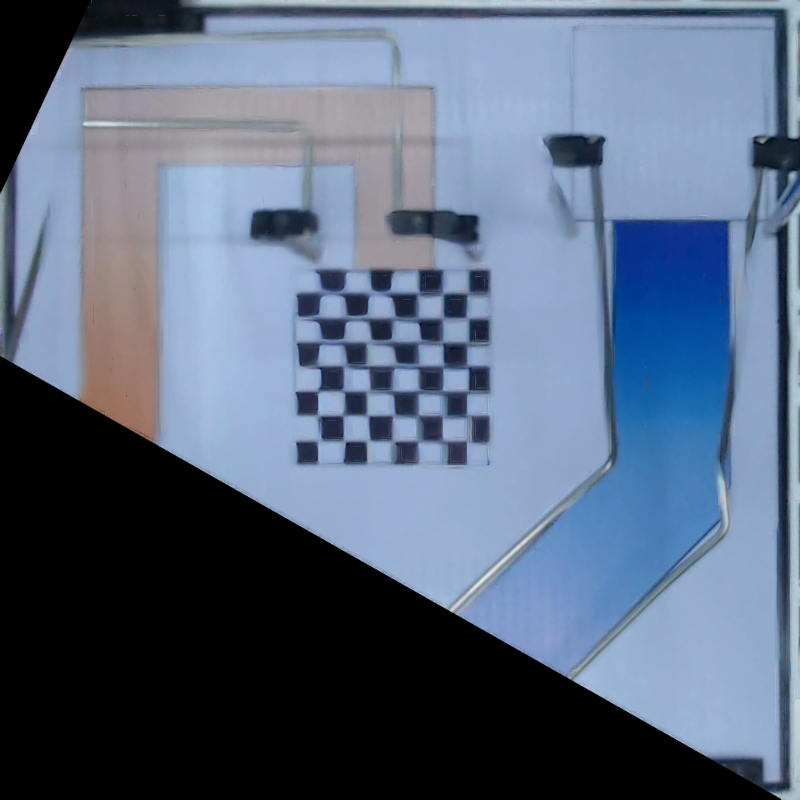
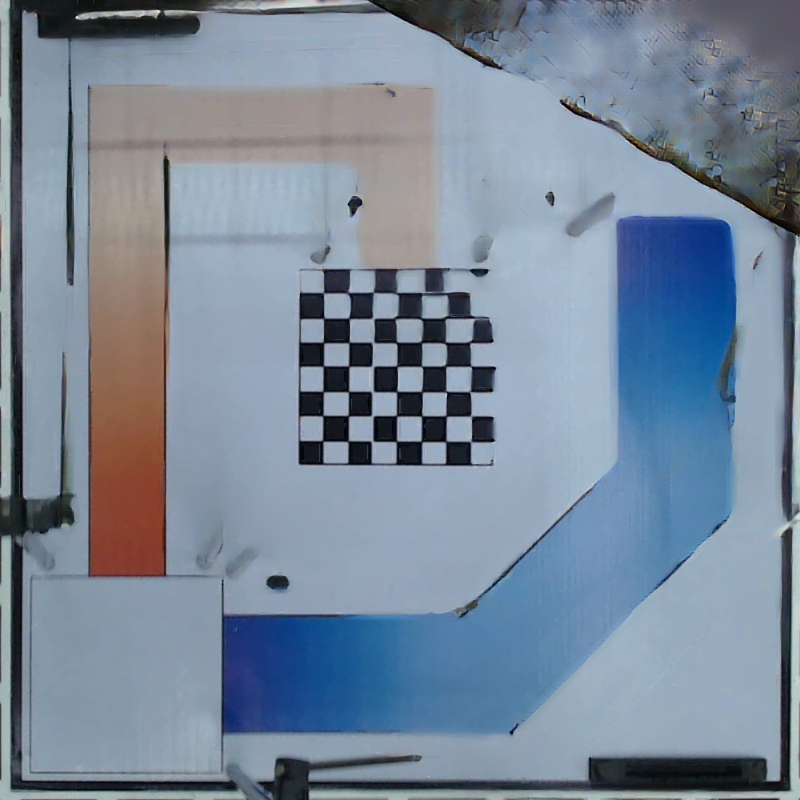
integrate RUN-reconstruction

diff --git a/ponyslayer/recon_median.py b/ponyslayer/recon_median.py
@@ -3,11 +3,6 @@ from skimage.measure import compare_ssim
 import numpy as np
 import random
 
-warped_list = np.load("X:/warped.npy", mmap_mode='r')
-valid_mask_list = np.load("X:/mask.npy", mmap_mode='r')
-# warped_list = np.load("C:/Users/teera/Downloads/warped.npy", mmap_mode='r')
-# valid_mask_list = np.load("C:/Users/teera/Downloads/mask.npy", mmap_mode='r')
-
 def findMedian(images): return np.asarray(np.median(np.dstack(images), axis=2), dtype=np.uint8)
 def apply_pair(imageA, maskA, imageB, maskB):
     grayA = cv2.cvtColor(imageA, cv2.COLOR_BGR2GRAY)
@@ -31,7 +26,7 @@ def apply_three(imageA, maskA, imageB, maskB, imageC, maskC):
     C = cv2.bitwise_or(cv2.bitwise_and(AB, cv2.bitwise_not(AB)),  # C = AC & !AB
                        cv2.bitwise_and(AC, cv2.bitwise_not(AB)))  # C = BC & !AB
     return [A, B, C]
-def apply_rand(imageA, maskA, pool, pool_valid, N):
+def apply_single_rand(imageA, maskA, pool, pool_valid, N):
     grayA = cv2.cvtColor(imageA, cv2.COLOR_BGR2GRAY)
     mask_list = []
     for i in range(N):
@@ -48,7 +43,6 @@ def apply_rand(imageA, maskA, pool, pool_valid, N):
         mask_list.append(mask)
     mask_med = np.asarray(np.median(np.dstack(mask_list), axis=2), dtype=np.uint8)
     return cv2.bitwise_or(cv2.bitwise_not(maskA), mask_med)
-
 def median_with_mask(images, masks):
     R, G, B = [], [] ,[]
     for img in images:
@@ -60,13 +54,13 @@ def median_with_mask(images, masks):
     image_tmp_r = np.dstack(R)
     image_tmp_g = np.dstack(G)
     image_tmp_b = np.dstack(B)
-    print(image_tmp_r.shape)
-    print(mask_tmp.shape)
+    # print(image_tmp_r.shape)
+    # print(mask_tmp.shape)
     mask = np.sum(mask_tmp, axis=2, dtype=np.uint16) # 255 is masked, 0 is unmasked (we want to count)
     mask = np.asarray(len(images) - mask/255, dtype=np.uint8)
     # cv2.imshow("A", mask)
     # cv2.waitKey(0)
-    print(mask.shape)
+    # print(mask.shape)
     r = np.sort(image_tmp_r, axis=2) # Sort stacked pixel
     r = np.dsplit(r, len(images)) # Split stacked pixel as before (but sorted)
     g = np.dsplit(np.sort(image_tmp_g, axis=2), len(images))
@@ -76,7 +70,7 @@ def median_with_mask(images, masks):
     #     cv2.imshow("A", final)
     #     cv2.waitKey(0)
     result = np.zeros_like(images[0])
-    print(result.shape)
+    # print(result.shape)
     # r = np.take(r, mask)
     # cv2.imshow("B", r)
     # cv2.waitKey(0)
@@ -87,48 +81,40 @@ def median_with_mask(images, masks):
             result[row][column][0] = r[index][row][column]
             result[row][column][1] = g[index][row][column]
             result[row][column][2] = b[index][row][column]
-    cv2.imshow("A", result)
-    cv2.waitKey(0)
+    # cv2.imshow("A", result)
+    # cv2.waitKey(0)
+    cv2.imwrite("X:/final.png", result)
     return result
 
-warpeds = []
-valids = []
-for i in range(20):
-    index = random.randrange(0, len(warped_list)/3)
-    warpeds.append(warped_list[index])
-    valids.append(valid_mask_list[index])
-median_with_mask(warpeds, valids)
+def run(N=20): # Median with valid mask
+    warped_list = np.load("X:/warped.npy", mmap_mode='r')
+    valid_mask_list = np.load("X:/mask.npy", mmap_mode='r')
+    warpeds = []
+    valids = []
+    for i in range(N):
+        index = random.randrange(0, int(len(warped_list) / 3))
+        warpeds.append(warped_list[index])
+        valids.append(valid_mask_list[index])
+    median_with_mask(warpeds, valids)
 
-# median_with_mask(warped_list[:20], valid_mask_list[:20])
+def run_rail(N=20, iteration=5): # Median with valid mask & Rail mask
+    warped_list = np.load("X:/warped.npy", mmap_mode='r')
+    valid_mask_list = np.load("X:/mask.npy", mmap_mode='r')
+    warpeds = []
+    valids = []
+    masks = []
+    for i in range(N):
+        index = random.randrange(0, int(len(warped_list) / 3))
+        warpeds.append(warped_list[index])
+        valids.append(valid_mask_list[index])
+        mask = apply_single_rand(warped_list[index], valid_mask_list[index], warped_list, valid_mask_list, iteration)
+        # mask = cv2.GaussianBlur(mask,(5,5),0)
+        # cv2.imshow("Mask", mask)
+        # cv2.imshow("Preview", warped_list[index])
+        # cv2.waitKey(1)
+        masks.append(mask)
+    median_with_mask(warpeds, masks)
 
-mask = apply_rand(warped_list[0], valid_mask_list[0], warped_list, valid_mask_list, 5)
-cv2.imwrite("X:/image1.png", warped_list[0])
-mask_rgb = cv2.cvtColor(mask, cv2.COLOR_GRAY2BGR)
-cv2.imwrite("X:/mask1.png", mask_rgb)
-
-# mask = apply_pair(warped_list[0], valid_mask_list[0], warped_list[20], valid_mask_list[20])
-# cv2.imwrite("X:/image1.png", warped_list[0])
-# cv2.imwrite("X:/mask1.png", cv2.cvtColor(mask, cv2.COLOR_GRAY2BGR))
-
-# original = imutils.resize(np.hstack([warped_list[0], warped_list[100], warped_list[200]]), width=1920)
-# rail_mask = imutils.resize(np.hstack(apply_three(warped_list[0], valid_mask_list[0], warped_list[100], valid_mask_list[100], warped_list[200], valid_mask_list[200])), width=1920)
-# cv2.imshow("A", original)
-# cv2.imshow("B", rail_mask)
-# cv2.waitKey(0)
-#
-# circular_round = 3
-# N = 3
-# step_round = int(len(warped_list)/N/circular_round)
-# for i in range(circular_round):
-#     index = []
-#     # for j in range(N): index.append(int(i*step_round + j*step_round/N))
-#     for j in range(N): index.append(int(i * step_round + j * 20))
-#     rail_masks = apply_three(warped_list[index[0]], valid_mask_list[index[0]],
-#                              warped_list[index[1]], valid_mask_list[index[1]],
-#                              warped_list[index[2]], valid_mask_list[index[2]])
-#     originals = [warped_list[index[0]], warped_list[index[0]], warped_list[index[0]]]
-#
-#     for i in range(3):
-#         mask_rgb = cv2.cvtColor(rail_masks[i], cv2.COLOR_GRAY2BGR)
-#         cv2.imwrite("X:/image" + str(i) + ".png", originals[i])
-#         cv2.imwrite("X:/mask" + str(i) + ".png", mask_rgb)
+if __name__ == "__main__":
+    run()
+    # run_rail(N=20)

diff --git a/ponyslayer/BGsub.py b/ponyslayer/BGsub.py
@@ -3,57 +3,59 @@ import numpy as np
 import math
 import random
 
-
-cuda_stream = cv2.cuda_Stream()
-backSub = cv2.cuda.createBackgroundSubtractorMOG2(history=100, varThreshold=16, detectShadows=False)
-# backSub = cv2.createBackgroundSubtractorKNN(history=30, dist2Threshold=400.0, detectShadows=True)
-
-warped_list = np.load("X:/warped.npy", mmap_mode='r')
-valid_mask_list = np.load("X:/mask.npy", mmap_mode='r')
-
-i = 0
-frame_counter = 0
-mode = True
-N = 1000
-bg_list = []
-for frame_counter in range(N):
-    index = random.randint(0, len(warped_list) - 1)
-    index = frame_counter % len(warped_list)
-    warped = warped_list[index]
-    valid_mask = valid_mask_list[index]
-    frame_counter += 1
-    if frame_counter > 500 and random.randint(0, N - frame_counter) < 200:
-        warped_final = bg_list[random.randint(0, len(bg_list) - 1)]
-    else:
-        if frame_counter < 200:
-            mean_canvas = np.ones(warped.shape, dtype="uint8") * 200
-            mean_canvas = cv2.bitwise_or(mean_canvas, mean_canvas, mask=cv2.bitwise_not(valid_mask))
+def run(use_random=True, visualize=False):
+    cuda_stream = cv2.cuda_Stream()
+    backSub = cv2.cuda.createBackgroundSubtractorMOG2(history=100, varThreshold=16, detectShadows=False)
+    # backSub = cv2.createBackgroundSubtractorKNN(history=30, dist2Threshold=400.0, detectShadows=True)
+    warped_list = np.load("X:/warped.npy", mmap_mode='r')
+    valid_mask_list = np.load("X:/mask.npy", mmap_mode='r')
+    i = 0
+    frame_counter = 0
+    mode = True
+    N = 1000
+    bg_list = []
+    for frame_counter in range(N):
+        if use_random: index = random.randint(0, len(warped_list) - 1)
+        else: index = frame_counter % len(warped_list)
+        warped = warped_list[index]
+        valid_mask = valid_mask_list[index]
+        frame_counter += 1
+        if frame_counter > 500 and random.randint(0, N - frame_counter) < 200:
+            warped_final = bg_list[random.randint(0, len(bg_list) - 1)]
         else:
-            mean_canvas = cv2.bitwise_or(bg, bg, mask=cv2.bitwise_not(valid_mask))
-            if frame_counter % 8 == 0: bg_list.append(bg)
-        valid_mask = cv2.bitwise_or(warped, warped, mask=valid_mask)
-        final = cv2.bitwise_or(mean_canvas, valid_mask)
-        cv2.imshow('Passed', final)
-        final_gpu = cv2.cuda_GpuMat()
-        final_gpu.upload(final)
+            if frame_counter < 200:
+                mean_canvas = np.ones(warped.shape, dtype="uint8") * 200
+                mean_canvas = cv2.bitwise_or(mean_canvas, mean_canvas, mask=cv2.bitwise_not(valid_mask))
+            else:
+                mean_canvas = cv2.bitwise_or(bg, bg, mask=cv2.bitwise_not(valid_mask))
+                if frame_counter % 8 == 0: bg_list.append(bg)
+            valid_mask = cv2.bitwise_or(warped, warped, mask=valid_mask)
+            final = cv2.bitwise_or(mean_canvas, valid_mask)
+            if visualize: cv2.imshow('Passed', final)
+            final_gpu = cv2.cuda_GpuMat()
+            final_gpu.upload(final)
+            final = cv2.cuda_GpuMat(final)
+            fgMask = backSub.apply(final, -1, cuda_stream)
+            fgMask = fgMask.download()
+            # fgMask = cv2.morphologyEx(fgMask, cv2.MORPH_CLOSE, kernel=np.ones((5,5),np.uint8))
+            # cv2.imshow('FG Mask', fgMask)
+            bg = cv2.cuda_GpuMat(final_gpu.size(), final_gpu.type())
+            backSub.getBackgroundImage(cuda_stream, bg)
+            bg = bg.download()
+            bg_list.append(bg)
+            if visualize:
+                cv2.imshow('BG', bg)
+                key = cv2.waitKey(1)
+                if key == 27:
+                    break
+                if key == ord('m'):
+                    mode = not mode
+                if key == ord(' '):
+                    cv2.imwrite(str(i) + ".jpg", warped)
+                    i += 1
+    cv2.imwrite("X:/final.png", bg)
+    cv2.waitKey(0)
+    cv2.destroyAllWindows()
 
-        final = cv2.cuda_GpuMat(final)
-        fgMask = backSub.apply(final, -1, cuda_stream)
-        fgMask = fgMask.download()
-        # fgMask = cv2.morphologyEx(fgMask, cv2.MORPH_CLOSE, kernel=np.ones((5,5),np.uint8))
-        # cv2.imshow('FG Mask', fgMask)
-        bg = cv2.cuda_GpuMat(final_gpu.size(), final_gpu.type())
-        backSub.getBackgroundImage(cuda_stream, bg)
-        bg = bg.download()
-        bg_list.append(bg)
-        cv2.imshow('BG', bg)
-    key = cv2.waitKey(1)
-    if key == 27:
-        break
-    if key == ord('m'):
-        mode = not mode
-    if key == ord(' '):
-        cv2.imwrite(str(i) + ".jpg", warped)
-        i += 1
-cv2.waitKey(0)
-cv2.destroyAllWindows()
+if __name__ == "__main__":
+    run(visualize=True)

diff --git a/ponyslayer/BGsub_frank.py b/ponyslayer/BGsub_frank.py
@@ -3,39 +3,40 @@ import numpy as np
 import math
 import random
 
+def run(use_random=True):
+    cuda_stream = cv2.cuda_Stream()
+    backSub = cv2.cuda.createBackgroundSubtractorMOG2(history=100, varThreshold=16, detectShadows=False)
+    # backSub = cv2.createBackgroundSubtractorKNN(history=30, dist2Threshold=400.0, detectShadows=True)
+    warped_list = np.load("X:/frank.npy", mmap_mode='r')
+    i=0
+    mode = True
+    N = 1000
+    bg_list = []
+    for frame_counter in range(N):
+        if use_random: index = random.randint(0, len(warped_list) - 1)
+        else: index = frame_counter % len(warped_list)
+        warped = warped_list[index]
+        warped_gpu = cv2.cuda_GpuMat()
+        warped_gpu.upload(warped)
+        fgMask = backSub.apply(warped_gpu, -1, cuda_stream)
+        fgMask = fgMask.download()
+        fgMask = cv2.morphologyEx(fgMask, cv2.MORPH_CLOSE, kernel=np.ones((5,5),np.uint8))
+        cv2.imshow('FG Mask', fgMask)
+        bg = cv2.cuda_GpuMat(warped_gpu.size(), warped_gpu.type())
+        backSub.getBackgroundImage(cuda_stream, bg)
+        bg = bg.download()
+        cv2.imshow('BG', bg)
+        key = cv2.waitKey(1)
+        if key == 27:
+            break
+        if key == ord('m'):
+            mode = not mode
+        if key == ord(' '):
+            cv2.imwrite(str(i) + ".jpg", warped)
+            i += 1
+    cv2.imwrite("X:/final.png", bg)
+    cv2.waitKey(0)
+    cv2.destroyAllWindows()
 
-cuda_stream = cv2.cuda_Stream()
-backSub = cv2.cuda.createBackgroundSubtractorMOG2(history=100, varThreshold=16, detectShadows=False)
-# backSub = cv2.createBackgroundSubtractorKNN(history=30, dist2Threshold=400.0, detectShadows=True)
-
-warped_list = np.load("X:/frank.npy", mmap_mode='r')
-
-i=0
-mode = True
-N = 1000
-bg_list = []
-for frame_counter in range(N):
-    index = random.randint(0, len(warped_list) - 1)
-    warped = warped_list[index]
-
-    warped_gpu = cv2.cuda_GpuMat()
-    warped_gpu.upload(warped)
-    fgMask = backSub.apply(warped_gpu, -1, cuda_stream)
-    fgMask = fgMask.download()
-    fgMask = cv2.morphologyEx(fgMask, cv2.MORPH_CLOSE, kernel=np.ones((5,5),np.uint8))
-    cv2.imshow('FG Mask', fgMask)
-    bg = cv2.cuda_GpuMat(warped_gpu.size(), warped_gpu.type())
-    backSub.getBackgroundImage(cuda_stream, bg)
-    bg = bg.download()
-    cv2.imshow('BG', bg)
-    key = cv2.waitKey(1)
-    if key == 27:
-        break
-    if key == ord('m'):
-        mode = not mode
-    if key == ord(' '):
-        cv2.imwrite(str(i) + ".jpg", warped)
-        i += 1
-cv2.imwrite("X:/final.png", bg)
-cv2.waitKey(0)
-cv2.destroyAllWindows()
+if __name__ == "__main__":
+    run()

diff --git a/ponyslayer/frankenstein.py b/ponyslayer/frankenstein.py
@@ -1,28 +1,29 @@
 import numpy as np
 import cv2
 import random
-warped_list = np.load("X:/warped.npy", mmap_mode='r')
-valid_mask_list = np.load("X:/mask.npy", mmap_mode='r')
-
-N = 200
-n = 5
-num_pixel = 800*800
-frank_list = []
-for i in range(N):
-    index = random.randint(0, len(warped_list) - 1)
-    image = warped_list[index]
-    mask = valid_mask_list[index]
-    area = np.sum(mask == 255)
-    while area/num_pixel*100 < 99:
+def run(N=20):
+    warped_list = np.load("X:/warped.npy", mmap_mode='r')
+    valid_mask_list = np.load("X:/mask.npy", mmap_mode='r')
+    n = 5
+    num_pixel = 800*800
+    frank_list = []
+    for i in range(N):
         index = random.randint(0, len(warped_list) - 1)
-        image_frank = warped_list[index]
-        mask_frank = valid_mask_list[index]
-        image_frank =  cv2.bitwise_or(image_frank, image_frank, mask=cv2.bitwise_not(mask))
-        image = cv2.bitwise_or(image, image_frank)
-        mask = cv2.bitwise_or(mask, mask_frank)
+        image = warped_list[index]
+        mask = valid_mask_list[index]
         area = np.sum(mask == 255)
-    print(int(area/num_pixel*100))
-    frank_list.append(image)
-    cv2.imshow("A", image)
-    cv2.waitKey(1)
-np.save("X:/frank", frank_list)
+        while area/num_pixel*100 < 99:
+            index = random.randint(0, len(warped_list) - 1)
+            image_frank = warped_list[index]
+            mask_frank = valid_mask_list[index]
+            image_frank =  cv2.bitwise_or(image_frank, image_frank, mask=cv2.bitwise_not(mask))
+            image = cv2.bitwise_or(image, image_frank)
+            mask = cv2.bitwise_or(mask, mask_frank)
+            area = np.sum(mask == 255)
+        # print(int(area/num_pixel*100))
+        frank_list.append(image)
+        cv2.imshow("A", image)
+        cv2.waitKey(1)
+    np.save("X:/frank", frank_list)
+if __name__ == "__main__":
+    run(N=200)

diff --git a/ponyslayer/inpainting/test.py b/ponyslayer/inpainting/test.py
@@ -33,7 +33,7 @@ if __name__=='__main__':
         parser.add_argument('--test_data_path',type=str ,default=" " ,help='test_data_path')
         parser.add_argument('--mask_path',type=str ,default=" " ,help='mask_path')
         parser.add_argument('--model_path',type=str ,default=" " ,help='model_path')
-        parser.add_argument('--file_out',type=str ,default="./result" ,help='result_path')
+        parser.add_argument('--file_out',type=str ,default="X:" ,help='result_path')
         parser.add_argument('--width',type=int ,default=800 ,help='images width')
         parser.add_argument('--height',type=int ,default=800 ,help='images height')
         args = parser.parse_args()
